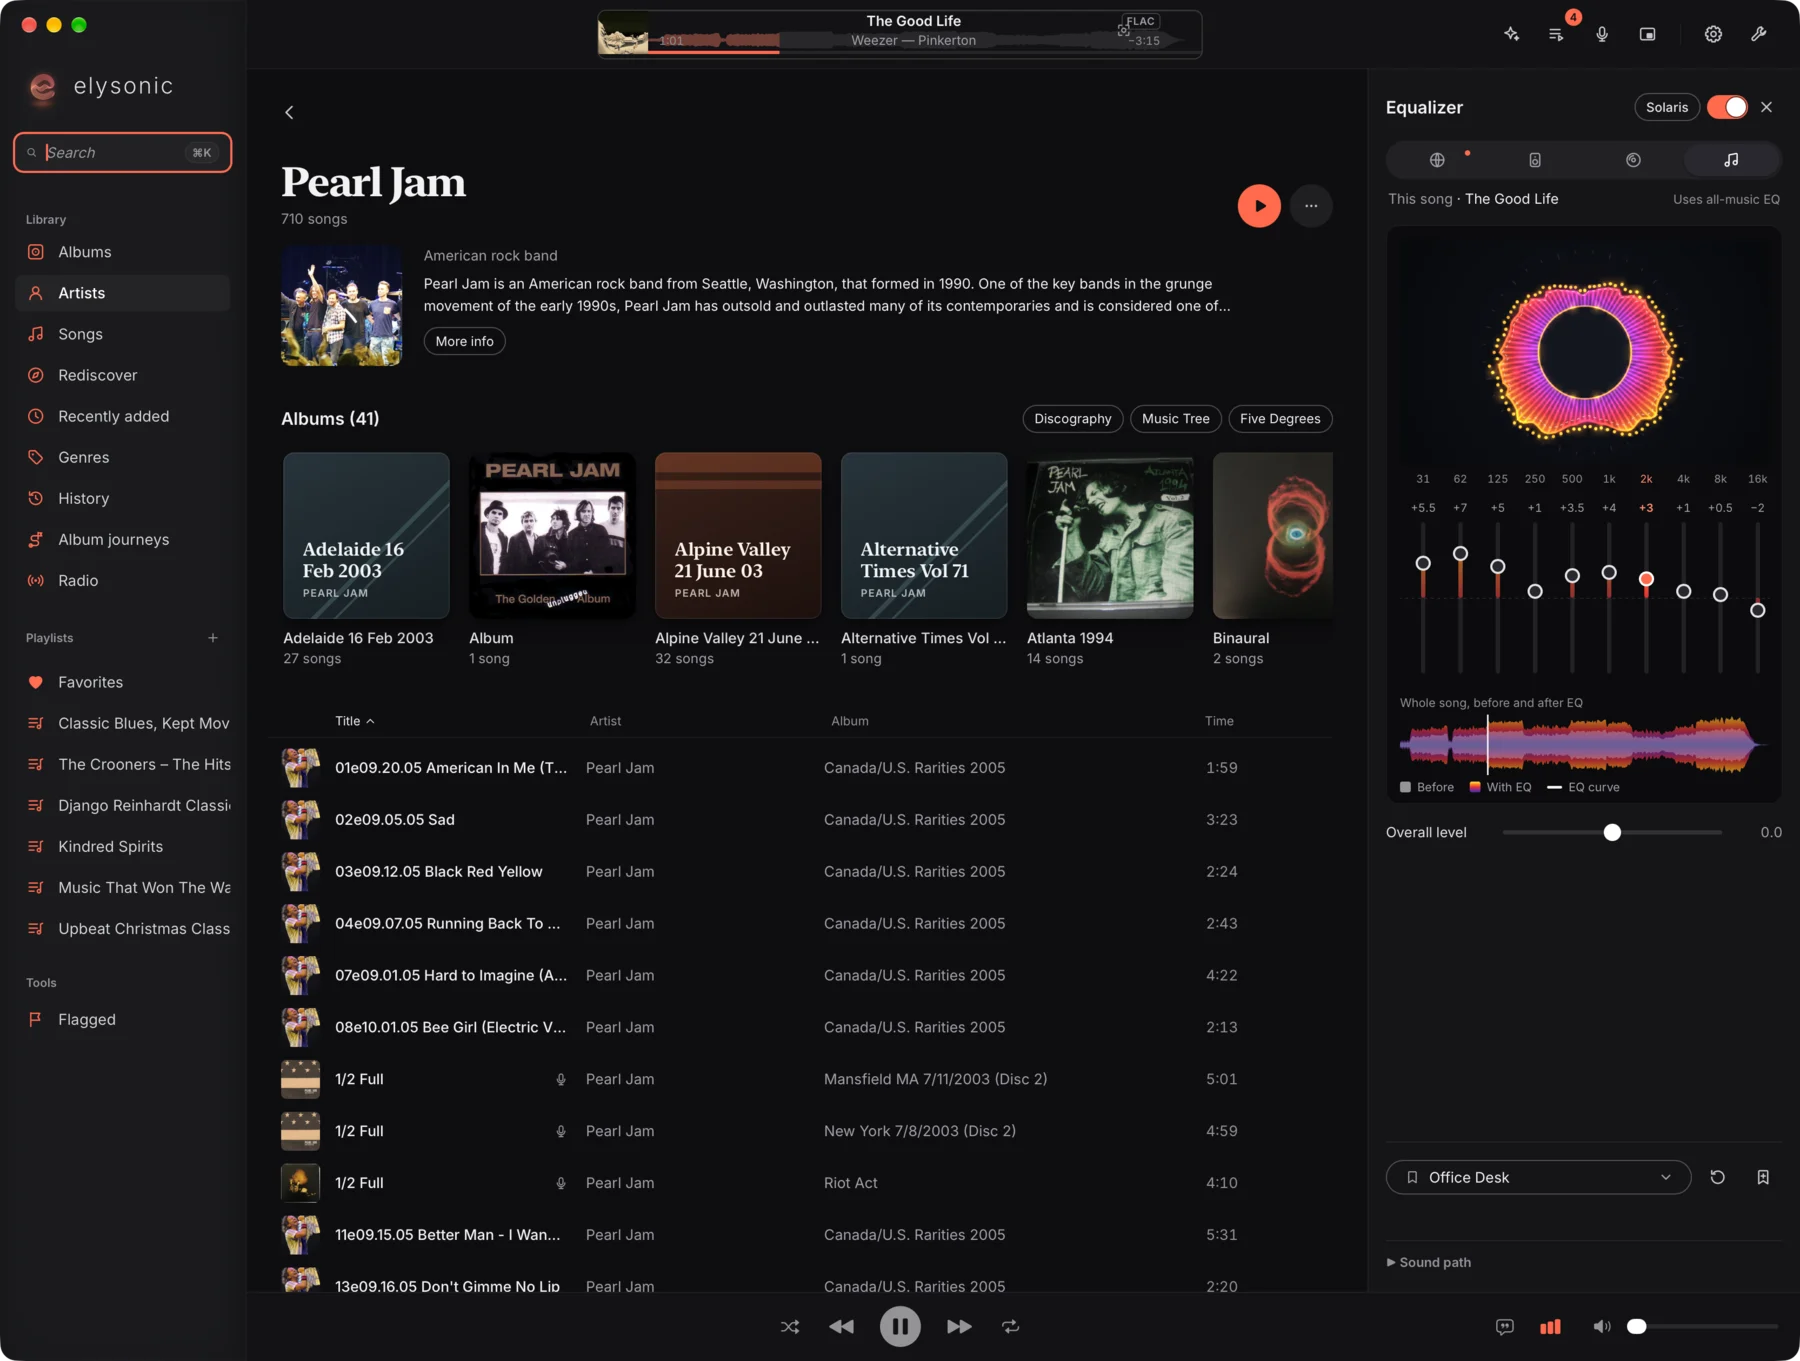
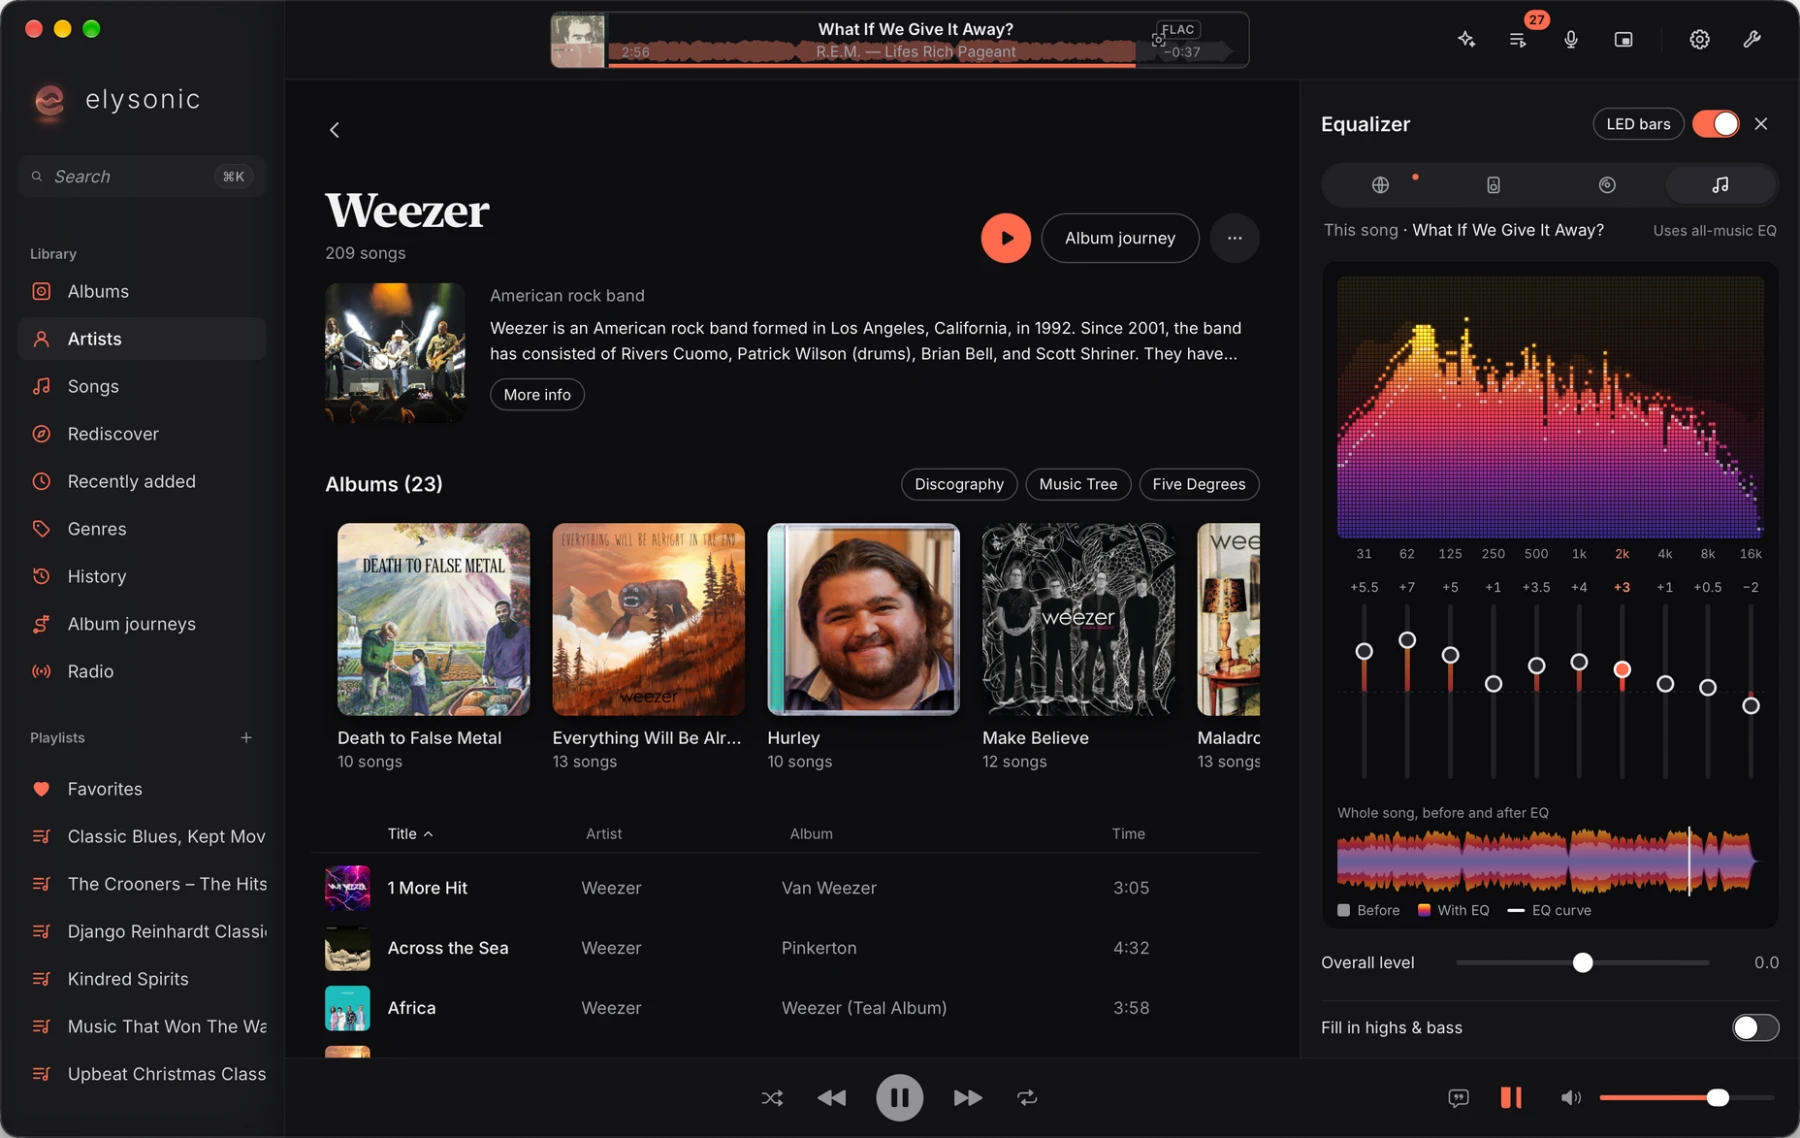
Update hero EQ screenshot to artist view with LED bars

diff --git a/index.html b/index.html
@@ -92,8 +92,8 @@
             <a class="window-frame stack-card stack-card-main" href="assets/hero-player.webp" data-lightbox data-title="Playing an album in Elysonic with Up Next">
               <img src="assets/hero-player.webp" width="1800" height="1178" fetchpriority="high" alt="Elysonic playing Shine Again by Weezer with golden embossed album artwork, tracklist, Up Next queue on the right, and playback controls along the bottom">
             </a>
-            <a class="window-frame stack-card stack-card-right" href="assets/eq.webp" data-lightbox data-title="10-band Equalizer and Solaris visualizer beside your library">
-              <img src="assets/eq.webp" width="1800" height="1361" loading="lazy" alt="Elysonic showing the 10-band equalizer, glowing Solaris ring visualizer, and whole-song waveform beside the library">
+            <a class="window-frame stack-card stack-card-right" href="assets/eq.webp" data-lightbox data-title="10-band Equalizer and LED bars visualizer beside an artist page">
+              <img src="assets/eq.webp" width="1800" height="1138" loading="lazy" alt="Elysonic showing the Weezer artist page beside the 10-band equalizer, LED bars spectrum visualizer, and before-and-after song waveform">
             </a>
           </div>
           <div class="stage-caption">
